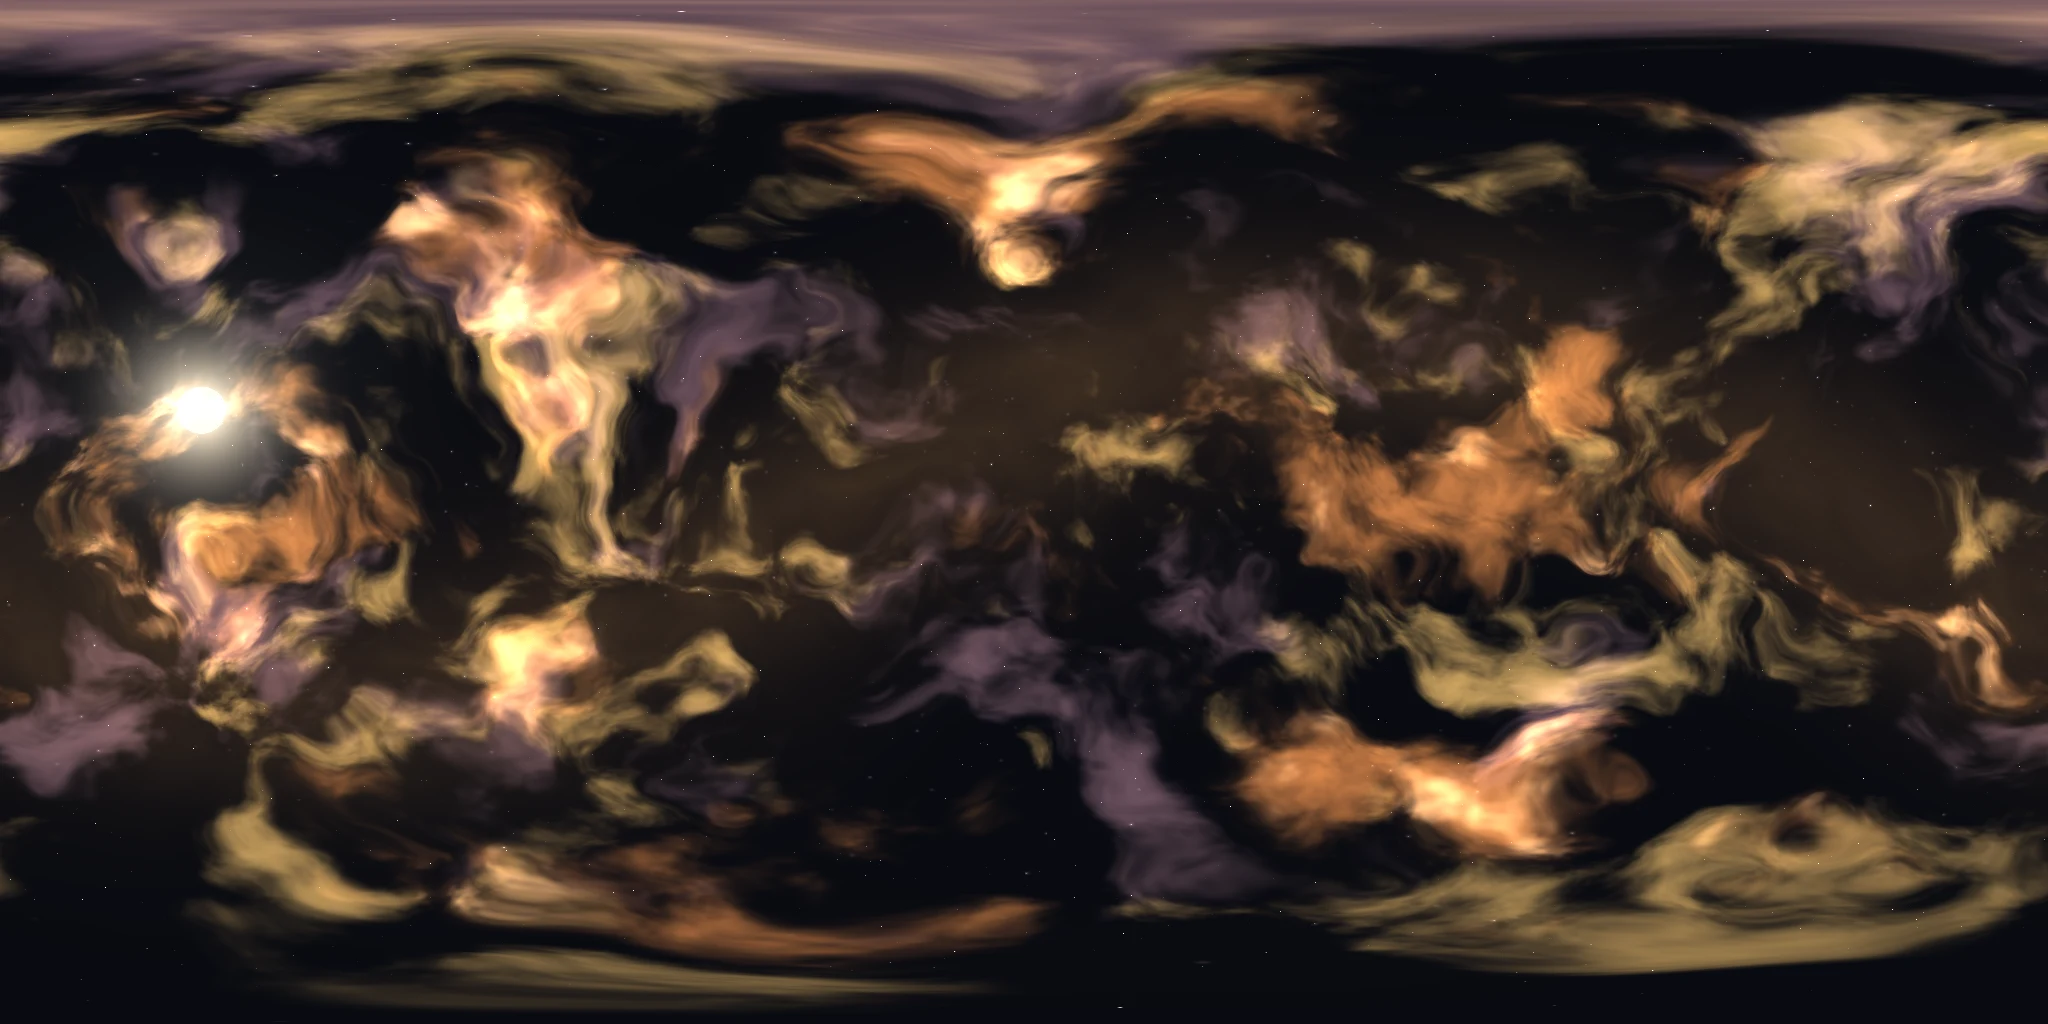
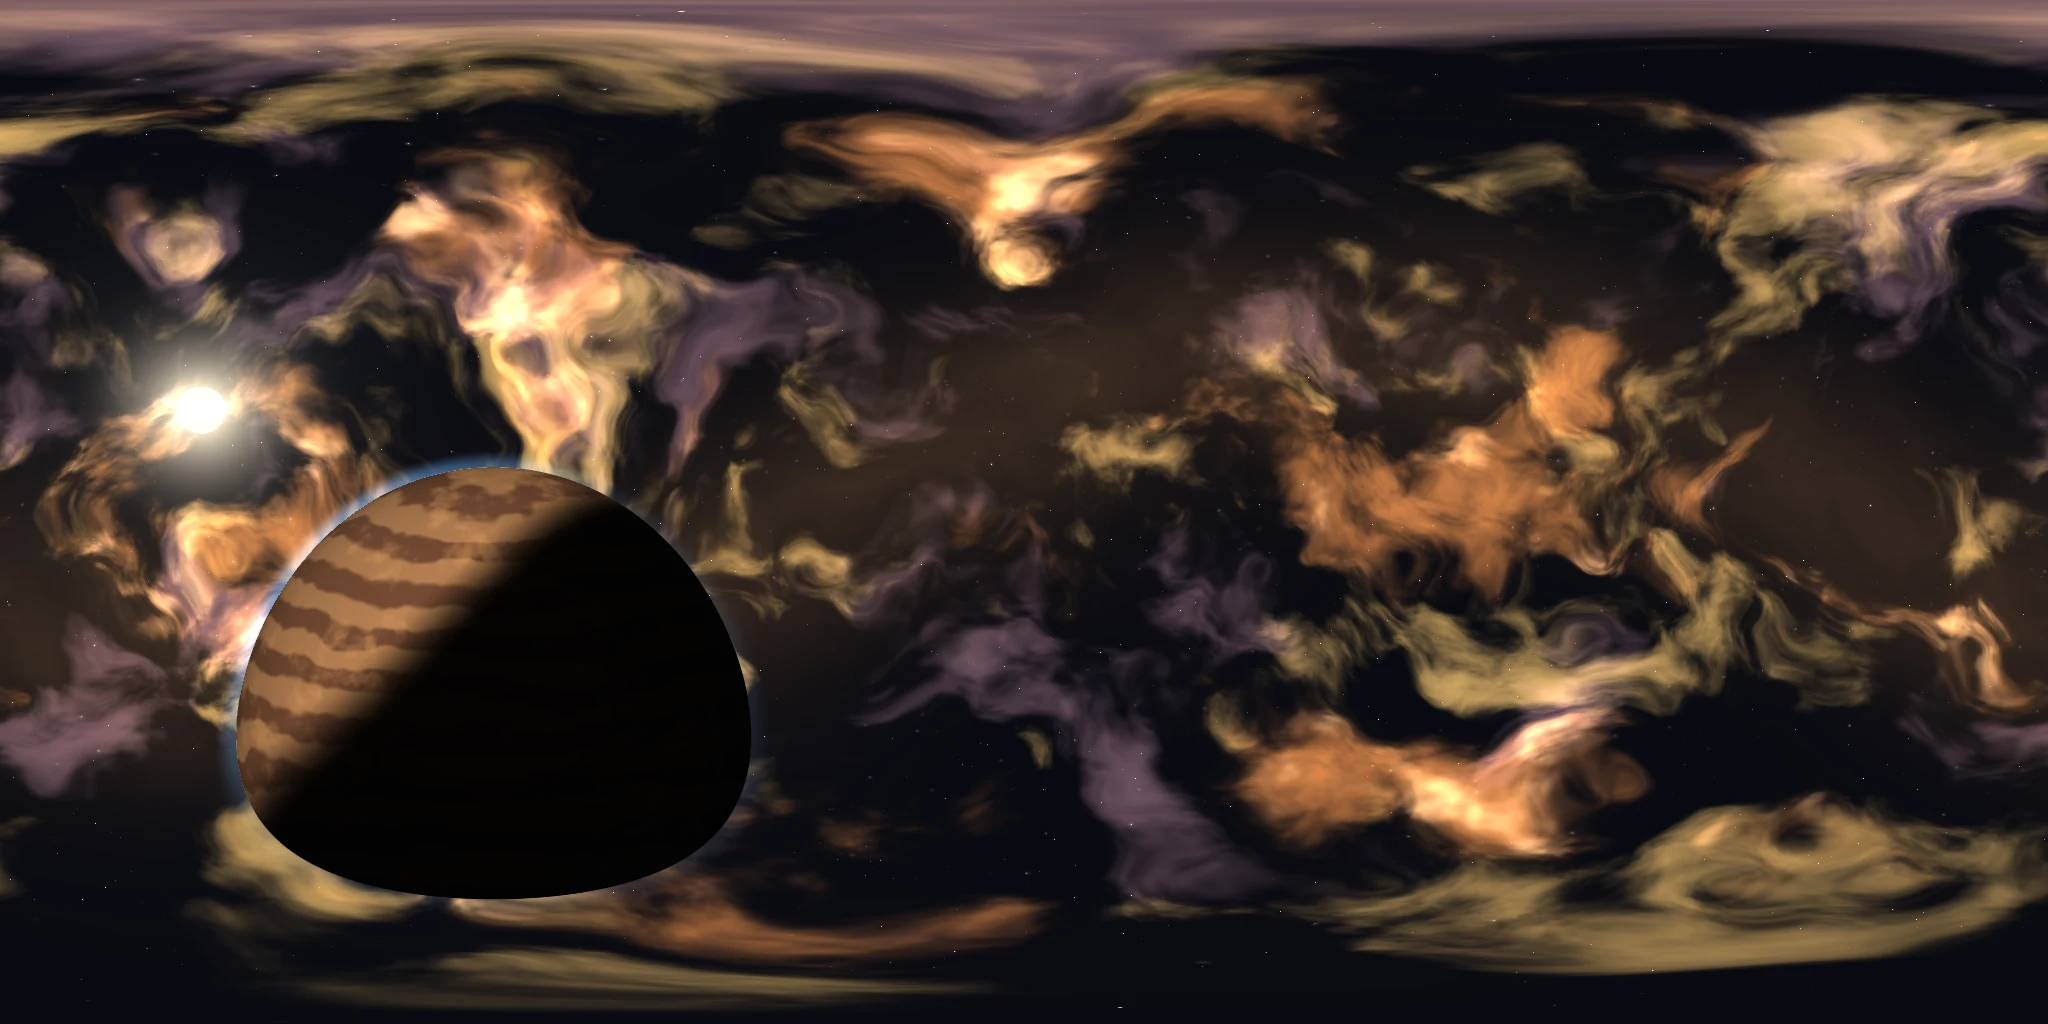
Fix skybox rendering root causes; brighten panos, paint planets
- Dev middleware served every non-glb binary as utf8 JSON: .webp panoramas
  200'd but never decoded, so dev never showed the sky (binaryMime map).
- StandardMaterial ADDS emissiveTexture to emissiveColor: any lit color is
  a flat wash over the pano. Color stays black; intensity = texture.level,
  tint = emissive Fresnel with equal colors.
- Async texture loads don't reliably rebuild the compiled effect: compile
  the texture-ready variant explicitly, freeze only after.
- GlowLayer excluded from the skybox (it bloomed the whole emissive sky).
- Generator: bigger sun disc/glow, nebula gain, painted planets (deep-field
  gas giant, ring-nebula moon) + numeric verification tool.

Changed region(s): [[0.0938, 0.4375, 0.375, 0.9062]]

diff --git a/client/src/core/SceneBuilder.ts b/client/src/core/SceneBuilder.ts
@@ -2,6 +2,7 @@ import {
   Color3,
   Color4,
   DirectionalLight,
+  FresnelParameters,
   GlowLayer,
   HemisphericLight,
   Mesh,
@@ -96,6 +97,7 @@ export class SceneBuilder {
   private root: TransformNode | null = null;
   private visible = true;
   private glowLayer: GlowLayer | null = null;
+  private skybox: Mesh | null = null;
   private unsubscribers: Array<() => void> = [];
   private generation = 0;
   private quality: SceneQuality;
@@ -103,6 +105,7 @@ export class SceneBuilder {
   private arenaId: string | null = null;
   private arena: ArenaConfig | null = null;
   private boundaryMaterial: StandardMaterial | ShaderMaterial | null = null;
+  private skyboxMaterialReadyToFreeze: StandardMaterial | null = null;
   private dust: DustField | null = null;
   /**
    * Editor override for `quality.scene.spawnMarkers`. `null` = follow the tier
@@ -266,9 +269,9 @@ export class SceneBuilder {
   }
 
   /**
-   * `freezeWorldMatrix()` + `material.freeze()` across the arena, minus the
-   * skybox: `infiniteDistance` re-derives its world matrix from the camera
-   * every frame, so freezing it would pin the sky in place.
+   * `freezeWorldMatrix()` + `material.freeze()` across the arena. The skybox's
+   * `infiniteDistance` world matrix stays live, and its material joins only
+   * after one texture-ready render (see {@link buildSkybox}).
    */
   private freezeStatics(): void {
     if (this.frozen || !this.root || !this.quality.render.freezeStatics) return;
@@ -282,6 +285,7 @@ export class SceneBuilder {
       if (mesh.name === "boundsShell") return;
       if (mesh.material) materials.add(mesh.material);
     });
+    if (this.skyboxMaterialReadyToFreeze) materials.add(this.skyboxMaterialReadyToFreeze);
     for (const material of materials) material.freeze();
   }
 
@@ -346,14 +350,23 @@ export class SceneBuilder {
       const skyMat = new StandardMaterial("mat.skybox", this.scene);
       skyMat.diffuseColor = Color3.Black();
       skyMat.specularColor = Color3.Black();
-      // BLACK until the panorama is actually READY: with a non-blocking texture
-      // an emissive-only StandardMaterial renders its raw emissiveColor as a
-      // full-sky wash while the image decodes — and freezeStatics() can freeze
-      // the material in that textureless state, baking the wash in PERMANENTLY
-      // (the race is invisible on fast/software renderers and constant on a
-      // cold-cache real GPU — the "horrible white skybox" bug).
+      // The standard shader ADDS the emissive texture to emissiveColor
+      // (default.fragment: `emissiveColor = vEmissiveColor; emissiveColor +=
+      // tex * vEmissiveInfos.y`) — it never multiplies them. emissiveColor must
+      // therefore stay BLACK permanently, or it paints a flat tint*intensity
+      // wash over the whole sky (the "white sky" in every one of its forms).
+      // Intensity rides the texture's own `level` (that IS vEmissiveInfos.y),
+      // and the tint hue is an emissive Fresnel with equal left/right colors —
+      // the one hook in this shader that MULTIPLIES the emissive result.
       skyMat.emissiveColor = Color3.Black();
-      const litEmissive = colorFromHex(authored.tint, Color3.White()).scale(authored.intensity);
+      const tint = colorFromHex(authored.tint, Color3.White());
+      skyMat.emissiveFresnelParameters = new FresnelParameters({
+        isEnabled: true,
+        leftColor: tint,
+        rightColor: tint,
+        bias: 1,
+        power: 1,
+      });
       const panorama = new Texture(
         `/content/${authored.texture}`,
         this.scene,
@@ -362,30 +375,39 @@ export class SceneBuilder {
         undefined,
         () => {
           if (generation !== this.generation) return;
-          // Texture is ready: light the sky up, and re-freeze the material if
-          // the arena froze while we were still decoding (a frozen shader
-          // compiled without the texture define would never show it).
-          skyMat.emissiveColor.copyFrom(litEmissive);
-          if (this.frozen) {
-            skyMat.unfreeze();
-            skyMat.freeze();
-          }
+          // Texture is ready. With emissiveColor pinned to black a stale
+          // textureless effect renders a BLACK sky, never a wash — but it can
+          // persist indefinitely: an async texture load does not reliably
+          // dirty this material's compiled effect (observed on Intel GPUs and
+          // the software renderer alike; the sky stayed textureless forever).
+          // Compile the texture-ready variant EXPLICITLY, and only then let
+          // the material freeze.
+          skyMat.unfreeze();
+          void skyMat
+            .forceCompilationAsync(skybox)
+            .then(() => {
+              if (generation !== this.generation || skybox.isDisposed()) return;
+              this.skyboxMaterialReadyToFreeze = skyMat;
+              if (this.frozen) skyMat.freeze();
+            })
+            .catch(() => undefined);
         },
         (message, exception) => {
           log.warn(
             `skybox texture failed for "${authored.texture}": ${message || String(exception)} — using solid authored tint`,
           );
-          // A failed texture otherwise leaves the material permanently unready
-          // and the sky black. A DIM emissive tint is the fallback backdrop
-          // (full tint*intensity with no texture is the white-wash bug above).
+          // A failed texture otherwise leaves the sky pure black. A DIM
+          // color-only backdrop is the one place emissiveColor may be non-black
+          // — there is no texture left for it to wash over.
           if (generation === this.generation) {
             skyMat.emissiveTexture?.dispose();
             skyMat.emissiveTexture = null;
-            skyMat.emissiveColor.copyFrom(litEmissive.scale(0.12));
+            skyMat.emissiveColor.copyFrom(tint.scale(authored.intensity * 0.12));
           }
         },
       );
       panorama.isBlocking = false;
+      panorama.level = authored.intensity;
       skyMat.emissiveTexture = panorama;
       skyMat.disableLighting = true;
       // The panorama is only a backdrop. Writing its near sphere depth hid the
@@ -395,6 +417,8 @@ export class SceneBuilder {
       skybox.infiniteDistance = true;
       skybox.isPickable = false;
       skybox.parent = root;
+      this.skybox = skybox;
+      this.glowLayer?.addExcludedMesh(skybox);
     }
 
     // Cheap starfield: a few hundred points via PointsCloudSystem, density per
@@ -591,6 +615,7 @@ export class SceneBuilder {
       );
     }
     this.glowLayer.intensity = glow.intensity;
+    if (this.skybox) this.glowLayer.addExcludedMesh(this.skybox);
   }
 
   /**
@@ -639,6 +664,8 @@ export class SceneBuilder {
   }
 
   private disposeSceneNodes(): void {
+    this.skyboxMaterialReadyToFreeze = null;
+    this.skybox = null;
     if (this.root) {
       disposeRecursive(this.root);
       this.root = null;

diff --git a/client/src/core/SceneBuilder.test.ts b/client/src/core/SceneBuilder.test.ts
@@ -2,11 +2,14 @@ import { afterEach, beforeEach, describe, expect, it } from "vitest";
 import {
   Color3,
   DirectionalLight,
+  FreeCamera,
+  GlowLayer,
   HemisphericLight,
   NullEngine,
   Scene,
   ShaderMaterial,
   StandardMaterial,
+  Vector3,
   type Mesh,
 } from "@babylonjs/core";
 import { ConfigService, EventBus, type ConfigEvents } from "@space-arena/shared";
@@ -66,7 +69,7 @@ const BOUNDARY_NOTIFICATION = {
   durationMs: 1000,
 } satisfies Record<string, unknown>;
 
-/** Every static arena mesh except the skybox, which is deliberately never frozen. */
+/** Every static arena mesh except the skybox, whose world matrix deliberately stays live. */
 function freezableMeshes(scene: Scene): Mesh[] {
   return scene.meshes.filter((m): m is Mesh => m.name !== "skybox" && "isWorldMatrixFrozen" in m);
 }
@@ -118,19 +121,61 @@ describe("SceneBuilder static freezing (§10 5.6)", () => {
     builder.dispose();
   });
 
+  it("freezes the skybox material only after a texture-ready render", async () => {
+    const builder = new SceneBuilder(scene, configs, bus, quality());
+    builder.buildArena("arena.test");
+
+    const skybox = scene.getMeshByName("skybox")!;
+    const material = skybox.material as StandardMaterial;
+    expect(builder.staticsFrozen).toBe(true);
+    expect(material.isFrozen).toBe(false);
+
+    // NullEngine completes its synthetic Texture on a later task, reproducing
+    // the phone ordering: freezeStatics has run before the onLoad callback.
+    await new Promise((resolve) => setTimeout(resolve, 0));
+    // emissiveColor stays BLACK even after load — the standard shader ADDS the
+    // emissive texture to emissiveColor, so any non-black value is a flat wash
+    // over the panorama. Intensity rides the texture's `level` instead.
+    expect(material.emissiveColor.r).toBe(0);
+    expect(material.emissiveTexture?.level).toBeCloseTo(0.8);
+    expect(material.isFrozen).toBe(false);
+
+    scene.activeCamera = new FreeCamera("camera", Vector3.Zero(), scene);
+    // Production freezes via its own forceCompilationAsync().then chain — give
+    // the promise a few macrotask turns to land rather than compiling here.
+    for (let i = 0; i < 20 && !material.isFrozen; i++) {
+      scene.render();
+      await new Promise((resolve) => setTimeout(resolve, 0));
+    }
+    expect(scene.getActiveMeshes().data).toContain(skybox);
+    expect(material.isFrozen).toBe(true);
+    expect(skybox.isWorldMatrixFrozen).toBe(false);
+
+    builder.setVisible(false);
+    expect(material.isFrozen).toBe(false);
+    builder.setVisible(true);
+    expect(material.isFrozen).toBe(true);
+
+    builder.dispose();
+  });
+
   it("wires the arena panorama through the /content path", () => {
     const builder = new SceneBuilder(scene, configs, bus, quality());
     builder.buildArena("arena.test");
 
     const material = scene.getMeshByName("skybox")!.material as StandardMaterial;
     expect(material.emissiveTexture?.name).toBe("/content/skyboxes/test.webp");
-    // BLACK until the panorama's onLoad fires: an emissive-only material with
-    // an unready non-blocking texture renders its raw emissiveColor as a
-    // full-sky wash (and freezing can bake that in). The tint*intensity is
-    // applied by the texture's onLoad callback, never at build time.
+    // BLACK permanently: the standard shader ADDS the emissive texture to
+    // emissiveColor (never multiplies), so a non-black color is a flat wash on
+    // top of the sky. Intensity is the texture's `level`; the tint hue is an
+    // emissive Fresnel with equal left/right colors — the shader's one
+    // multiplicative hook on the emissive result.
     expect(material.emissiveColor.r).toBe(0);
     expect(material.emissiveColor.g).toBe(0);
     expect(material.emissiveColor.b).toBe(0);
+    expect(material.emissiveTexture?.level).toBeCloseTo(0.8);
+    expect(material.emissiveFresnelParameters?.leftColor.r).toBeCloseTo(1);
+    expect(material.emissiveFresnelParameters?.rightColor.r).toBeCloseTo(1);
     expect(material.disableDepthWrite).toBe(true);
     expect(material.emissiveTexture?.isBlocking).toBe(false);
     builder.dispose();
@@ -199,6 +244,29 @@ describe("SceneBuilder static freezing (§10 5.6)", () => {
 
     builder.setQuality(quality({ glow: { enabled: true, intensity: 0.2 } }));
     expect(scene.effectLayers.length).toBe(1);
+
+    builder.dispose();
+  });
+
+  it("keeps every rebuilt skybox excluded across glow-layer recreation", () => {
+    const builder = new SceneBuilder(scene, configs, bus, quality());
+    builder.buildArena("arena.test");
+
+    const firstSkybox = scene.getMeshByName("skybox")!;
+    const firstGlow = scene.effectLayers[0] as GlowLayer;
+    expect(firstGlow.hasMesh(firstSkybox)).toBe(false);
+    expect(firstGlow.hasMesh(scene.getMeshByName("boundsShell")!)).toBe(true);
+
+    expect(configs.replace({ ...ARENA, version: 2 }).ok).toBe(true);
+    const rebuiltSkybox = scene.getMeshByName("skybox")!;
+    expect(rebuiltSkybox).not.toBe(firstSkybox);
+    expect(firstGlow.hasMesh(rebuiltSkybox)).toBe(false);
+
+    builder.setQuality(quality({ glow: { enabled: false, intensity: 0 } }));
+    builder.setQuality(quality({ glow: { enabled: true, intensity: 0.2 } }));
+    const recreatedGlow = scene.effectLayers[0] as GlowLayer;
+    expect(recreatedGlow).not.toBe(firstGlow);
+    expect(recreatedGlow.hasMesh(rebuiltSkybox)).toBe(false);
 
     builder.dispose();
   });
